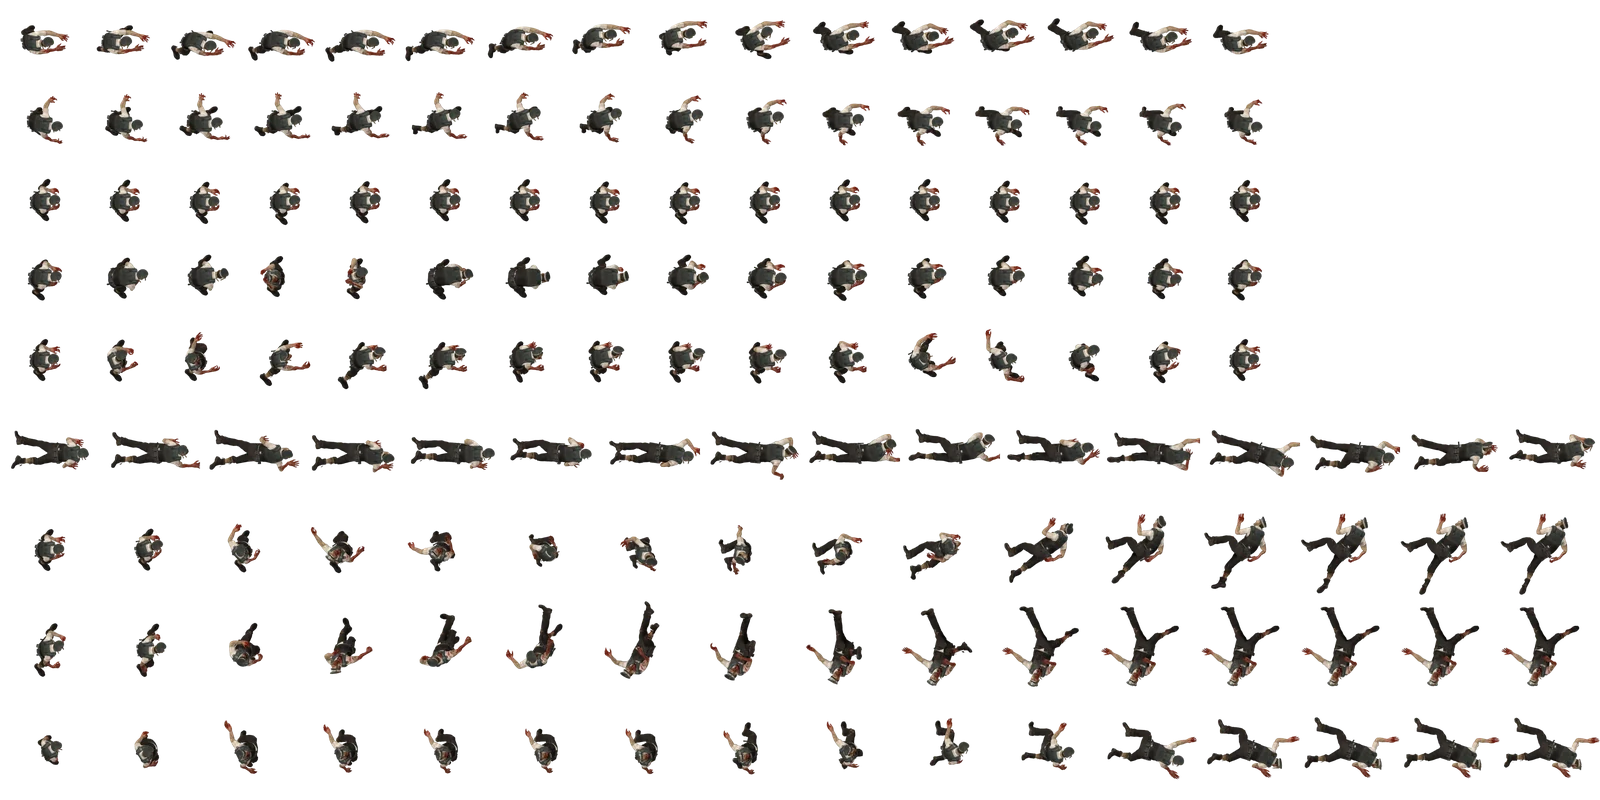
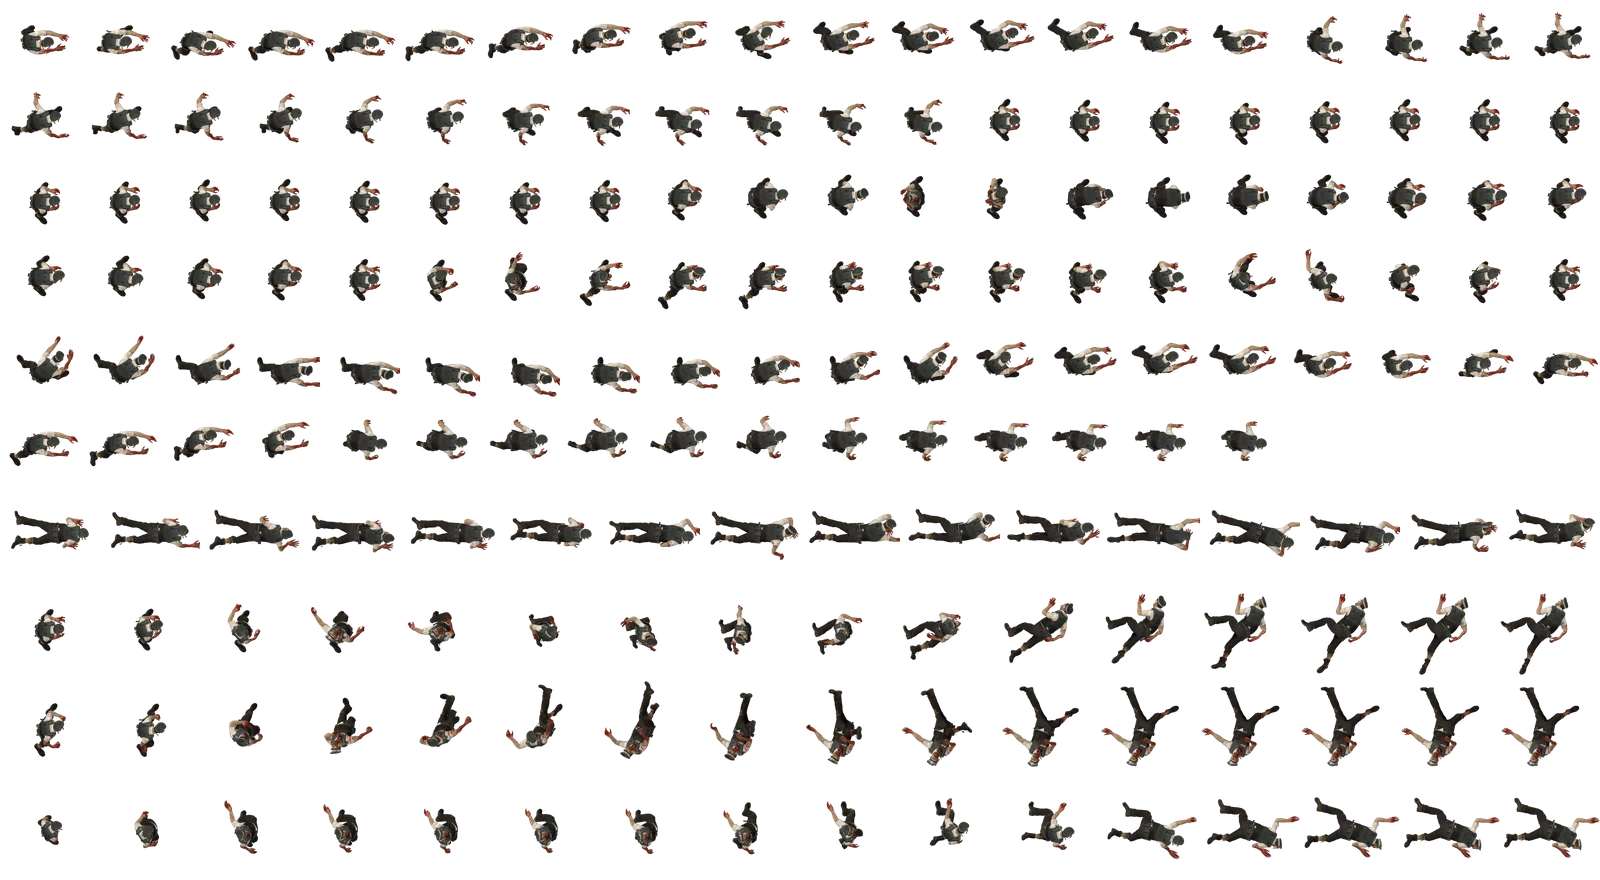
Zombies: drei Geh- und zwei Laufbewegungen, Gangart fest je Zombie-Id, Atlas fließend gepackt
Mixamo „Walking“ (gebeugt), „Walking“ (Arme vor) und „Mutant Run“ (In Place, ohne Haut, 12 Bilder) je Figur als
walk2/walk3/run2; zfGang(id) wählt Variante und Tempofaktor 0,88–1,12. atlas_bauen.py packt die Bilder fließend
(3200 x 1760, 22,5 MB Grafikspeicher je Figur), optionale Clips; seite.html: gier= (feste Blickrichtung), nur=tempo
(Bodengeschwindigkeit je Clip). Schrittweiten der Varianten nach gemessenem Weg je Zyklus. Drahttest misst erst nach dem ersten Takt.

diff --git a/zombies/tools/mixamo/seite.html b/zombies/tools/mixamo/seite.html
@@ -31,10 +31,24 @@ try {
   const EINMAL = q.get('einmal') === '1', TZ = i => EINMAL ? clip.duration * Math.min(i, N - 1) / (N - 1) : clip.duration * i / N;
   let fx = 0, fz = 0; g.rotation.y = 0;
   for (let i = 0; i < (EINMAL ? 1 : 16); i++) { mixer.setTime(clip.duration * i / 16); g.updateMatrixWorld(true); const a = bL.getWorldPosition(new THREE.Vector3()), b = bR.getWorldPosition(new THREE.Vector3()); const dx = b.x - a.x, dz = b.z - a.z; fx += dz * 1 - 0; fz += -dx; }   // up x (R-L) = (dz, 0, -dx)
-  const gier = Math.atan2(fx, fz); window.__gier = gier * 180 / Math.PI;
+  // gier=<Grad>: feste Blickrichtung statt Messung (Mixamo-Clips laufen nach +z; bei Gang-Varianten mit verdrehter Hüfte täuscht die Messung)
+  const gier = q.get('gier') !== null ? +q.get('gier') * Math.PI / 180 : Math.atan2(fx, fz); window.__gier = gier * 180 / Math.PI;
   g.rotation.y = Math.PI / 2 - gier + (+(q.get('dreh') || 0)) * Math.PI / 180;
   const dauer = clip.duration;
   const box = () => { g.updateMatrixWorld(true); const b = new THREE.Box3(); g.traverse(o => { if ((o.isMesh || o.isSkinnedMesh)) { o.frustumCulled = false; if (o.isSkinnedMesh) { o.skeleton.update(); b.union(new THREE.Box3().setFromObject(o, true)); } else b.expandByObject(o); } }); return b; };
+  if (q.get('nur') === 'tempo') {   // Bodengeschwindigkeit, die zur Animation passt (echte Größe, 1× Tempo): Fuß steht still = bewegt sich relativ zur Hüfte mit -v nach hinten
+    let hipsB = null, fuesse = []; g.traverse(o => { if (o.isBone) { if (/Hips$/.test(o.name)) hipsB = hipsB || o; if (/(Left|Right)Foot$/.test(o.name)) fuesse.push(o); } });
+    const M = 240, dt = clip.duration / M, vs = [], hp = [];
+    const lage = t => { mixer.setTime(t); g.updateMatrixWorld(true); return { h: hipsB.getWorldPosition(new THREE.Vector3()), f: fuesse.map(b => b.getWorldPosition(new THREE.Vector3())) }; };
+    // Richtung: Mixamo-Clips laufen nach +z (vor der Drehung g.rotation.y); hier ohne Drehung messen
+    g.rotation.y = 0; const sk = g.scale.x;
+    let a = lage(0); const h0 = a.h.clone();
+    for (let i = 1; i <= M; i++) { const b = lage(i * dt); for (let k = 0; k < b.f.length; k++) vs.push(((b.f[k].z - b.h.z) - (a.f[k].z - a.h.z)) / dt / sk); a = b; }
+    vs.sort((x, y) => x - y);
+    const stand = -vs[Math.floor(vs.length * 0.25)] * 0.01;   // m/s (FBX cm → m)
+    const wurzel = Math.hypot(a.h.x - h0.x, a.h.z - h0.z) / sk * 0.01 / clip.duration;
+    out.textContent = 'TEMPO ' + JSON.stringify({ dauer: +clip.duration.toFixed(3), fuss_ms: +stand.toFixed(2), wurzel_ms: +wurzel.toFixed(2) }); throw 0;
+  }
   if (q.get('nur') === 'info') {
     const info = ['DAUER ' + dauer.toFixed(3) + ' s, Spuren ' + clip.tracks.length];
     let mn = new THREE.Vector3(1e9, 1e9, 1e9), mx = new THREE.Vector3(-1e9, -1e9, -1e9);

diff --git a/zombies/tools/mixamo/atlas_bauen.py b/zombies/tools/mixamo/atlas_bauen.py
@@ -2,25 +2,47 @@
 """Mixamo-Streifen (<figur>_<clip>_streifen.png aus alle.sh) -> je Figur ein WebP-Atlas + gemeinsame JSON-Liste, Farbstil C
 (aufgehellt, Gamma 0,72 wie farbvarianten.py, ohne Kontur, keine Sättigungsänderung).
 Aufruf: PYTHONPATH=<pil> python3 atlas_bauen.py <ordner mit Streifen> <ausgabeordner = client/grafik>
-Layout je Atlas: eine Zeile je Clip in fester Reihenfolge (walk, run, idle, attack, neckbite = 160er Felder; crawl, dying, tod2, tod3 = 200er Felder; tod2/tod3 = weitere Sterbebewegungen),
-16 Bilder je Zeile. JSON: bilder[<figur>_<clip>_<nn>] = [x, y, b, h] (Rahmen im Atlas der Figur), clips[<clip>] = Meta."""
-import sys, json
+Layout je Atlas (Breite 3200): die Bilder fließen zeilenweise hintereinander, zuerst alle 160er Felder (walk, run, idle, attack, neckbite und die
+Gang-Varianten walk2, walk3, run2 mit 12 Bildern), dann die 200er Felder (crawl, dying, tod2, tod3). So bleibt kein Rest am Zeilenende frei.
+Pflicht-Clips müssen für jede Figur da sein; Varianten (walk2, walk3, run2, tod2, tod3) nur, wenn sie für ALLE Figuren gerendert sind.
+JSON: bilder[<figur>_<clip>_<nn>] = [x, y, b, h] (Rahmen im Atlas der Figur, alle Figuren gleich), clips[<clip>] = { feld, n, schleife }."""
+import sys, json, os
 from PIL import Image
 D, OUT = sys.argv[1].rstrip('/') + '/', sys.argv[2].rstrip('/') + '/'
 FIG = ['warzombie', 'copzombie', 'zombiegirl', 'yaku', 'romero']
-CLIPS = [('walk', 160, True), ('run', 160, True), ('idle', 160, True), ('attack', 160, True), ('neckbite', 160, True), ('crawl', 200, True), ('dying', 200, False), ('tod2', 200, False), ('tod3', 200, False)]
-N = 16; GAMMA = [round(255 * (v / 255) ** 0.72) for v in range(256)]
+# (clip, Feld px, Schleife, Pflicht)
+CLIPS = [('walk', 160, True, True), ('run', 160, True, True), ('idle', 160, True, True), ('attack', 160, True, True), ('neckbite', 160, True, True),
+         ('walk2', 160, True, False), ('walk3', 160, True, False), ('run2', 160, True, False),
+         ('crawl', 200, True, True), ('dying', 200, False, True), ('tod2', 200, False, False), ('tod3', 200, False, False)]
+BREITE = 3200
+GAMMA = [round(255 * (v / 255) ** 0.72) for v in range(256)]
 def hell(s):
     a = s.split()[3]; r = s.convert('RGB').point(GAMMA * 3).convert('RGBA'); r.putalpha(a); return r
-bilder = {}; clips = {}; hoehe = sum(f for _, f, _ in CLIPS); breite = N * max(f for _, f, _ in CLIPS)
+datei = lambda fig, clip: f'{D}{fig}_{clip}_streifen.png'
+aktiv = [c for c in CLIPS if c[3] or all(os.path.exists(datei(f, c[0])) for f in FIG)]
+# Bildzahl je Clip aus dem Streifen der ersten Figur; Platz im Atlas fließend vergeben
+plan, clips, x, y, feld_alt = {}, {}, 0, 0, None
+for clip, feld, schleife, _ in aktiv:
+    s = Image.open(datei(FIG[0], clip)); n = s.width // feld
+    assert s.height == feld and s.width == n * feld, (clip, s.size)
+    if feld_alt is not None and feld != feld_alt and x > 0: x = 0; y += feld_alt   # neue Feldgröße: neue Zeile
+    feld_alt = feld
+    for i in range(n):
+        if x + feld > BREITE: x = 0; y += feld
+        plan[(clip, i)] = (x, y, feld); x += feld
+    clips[clip] = {'feld': feld, 'n': n, 'schleife': schleife}
+hoehe = y + (feld_alt if x > 0 else 0)
+bilder = {}
 for fig in FIG:
-    atlas = Image.new('RGBA', (breite, hoehe), (0, 0, 0, 0)); y = 0
-    for clip, feld, schleife in CLIPS:
-        s = Image.open(f'{D}{fig}_{clip}_streifen.png').convert('RGBA'); assert s.height == feld and s.width == N * feld, (fig, clip, s.size)
-        for i in range(N):
-            atlas.alpha_composite(hell(s.crop((i * feld, 0, (i + 1) * feld, feld))), (i * feld, y)); bilder[f'{fig}_{clip}_{i:02d}'] = [i * feld, y, feld, feld]
-        clips[clip] = {'feld': feld, 'n': N, 'schleife': schleife}; y += feld
+    atlas = Image.new('RGBA', (BREITE, hoehe), (0, 0, 0, 0))
+    for clip, feld, _, _ in aktiv:
+        s = Image.open(datei(fig, clip)).convert('RGBA'); n = clips[clip]['n']
+        assert s.height == feld and s.width == n * feld, (fig, clip, s.size)
+        for i in range(n):
+            px, py, _ = plan[(clip, i)]
+            atlas.alpha_composite(hell(s.crop((i * feld, 0, (i + 1) * feld, feld))), (px, py)); bilder[f'{fig}_{clip}_{i:02d}'] = [px, py, feld, feld]
     atlas.save(f'{OUT}zombies_{fig}.webp', quality=82, alpha_quality=90, method=6)
-    print(fig, atlas.size)
-json.dump({'figuren': FIG, 'atlas': {f: f'zombies_{f}.webp' for f in FIG}, 'groesse': [breite, hoehe], 'clips': clips, 'bilder': bilder},
+    print(fig, atlas.size, f'{os.path.getsize(f"{OUT}zombies_{fig}.webp") // 1024} kB, Grafikspeicher {BREITE * hoehe * 4 / 1e6:.1f} MB')
+json.dump({'figuren': FIG, 'atlas': {f: f'zombies_{f}.webp' for f in FIG}, 'groesse': [BREITE, hoehe], 'clips': clips, 'bilder': bilder},
           open(OUT + 'zombies_neu.json', 'w'), separators=(',', ':'))
+print('Clips:', ', '.join(f'{c}({clips[c]["n"]})' for c in clips))
